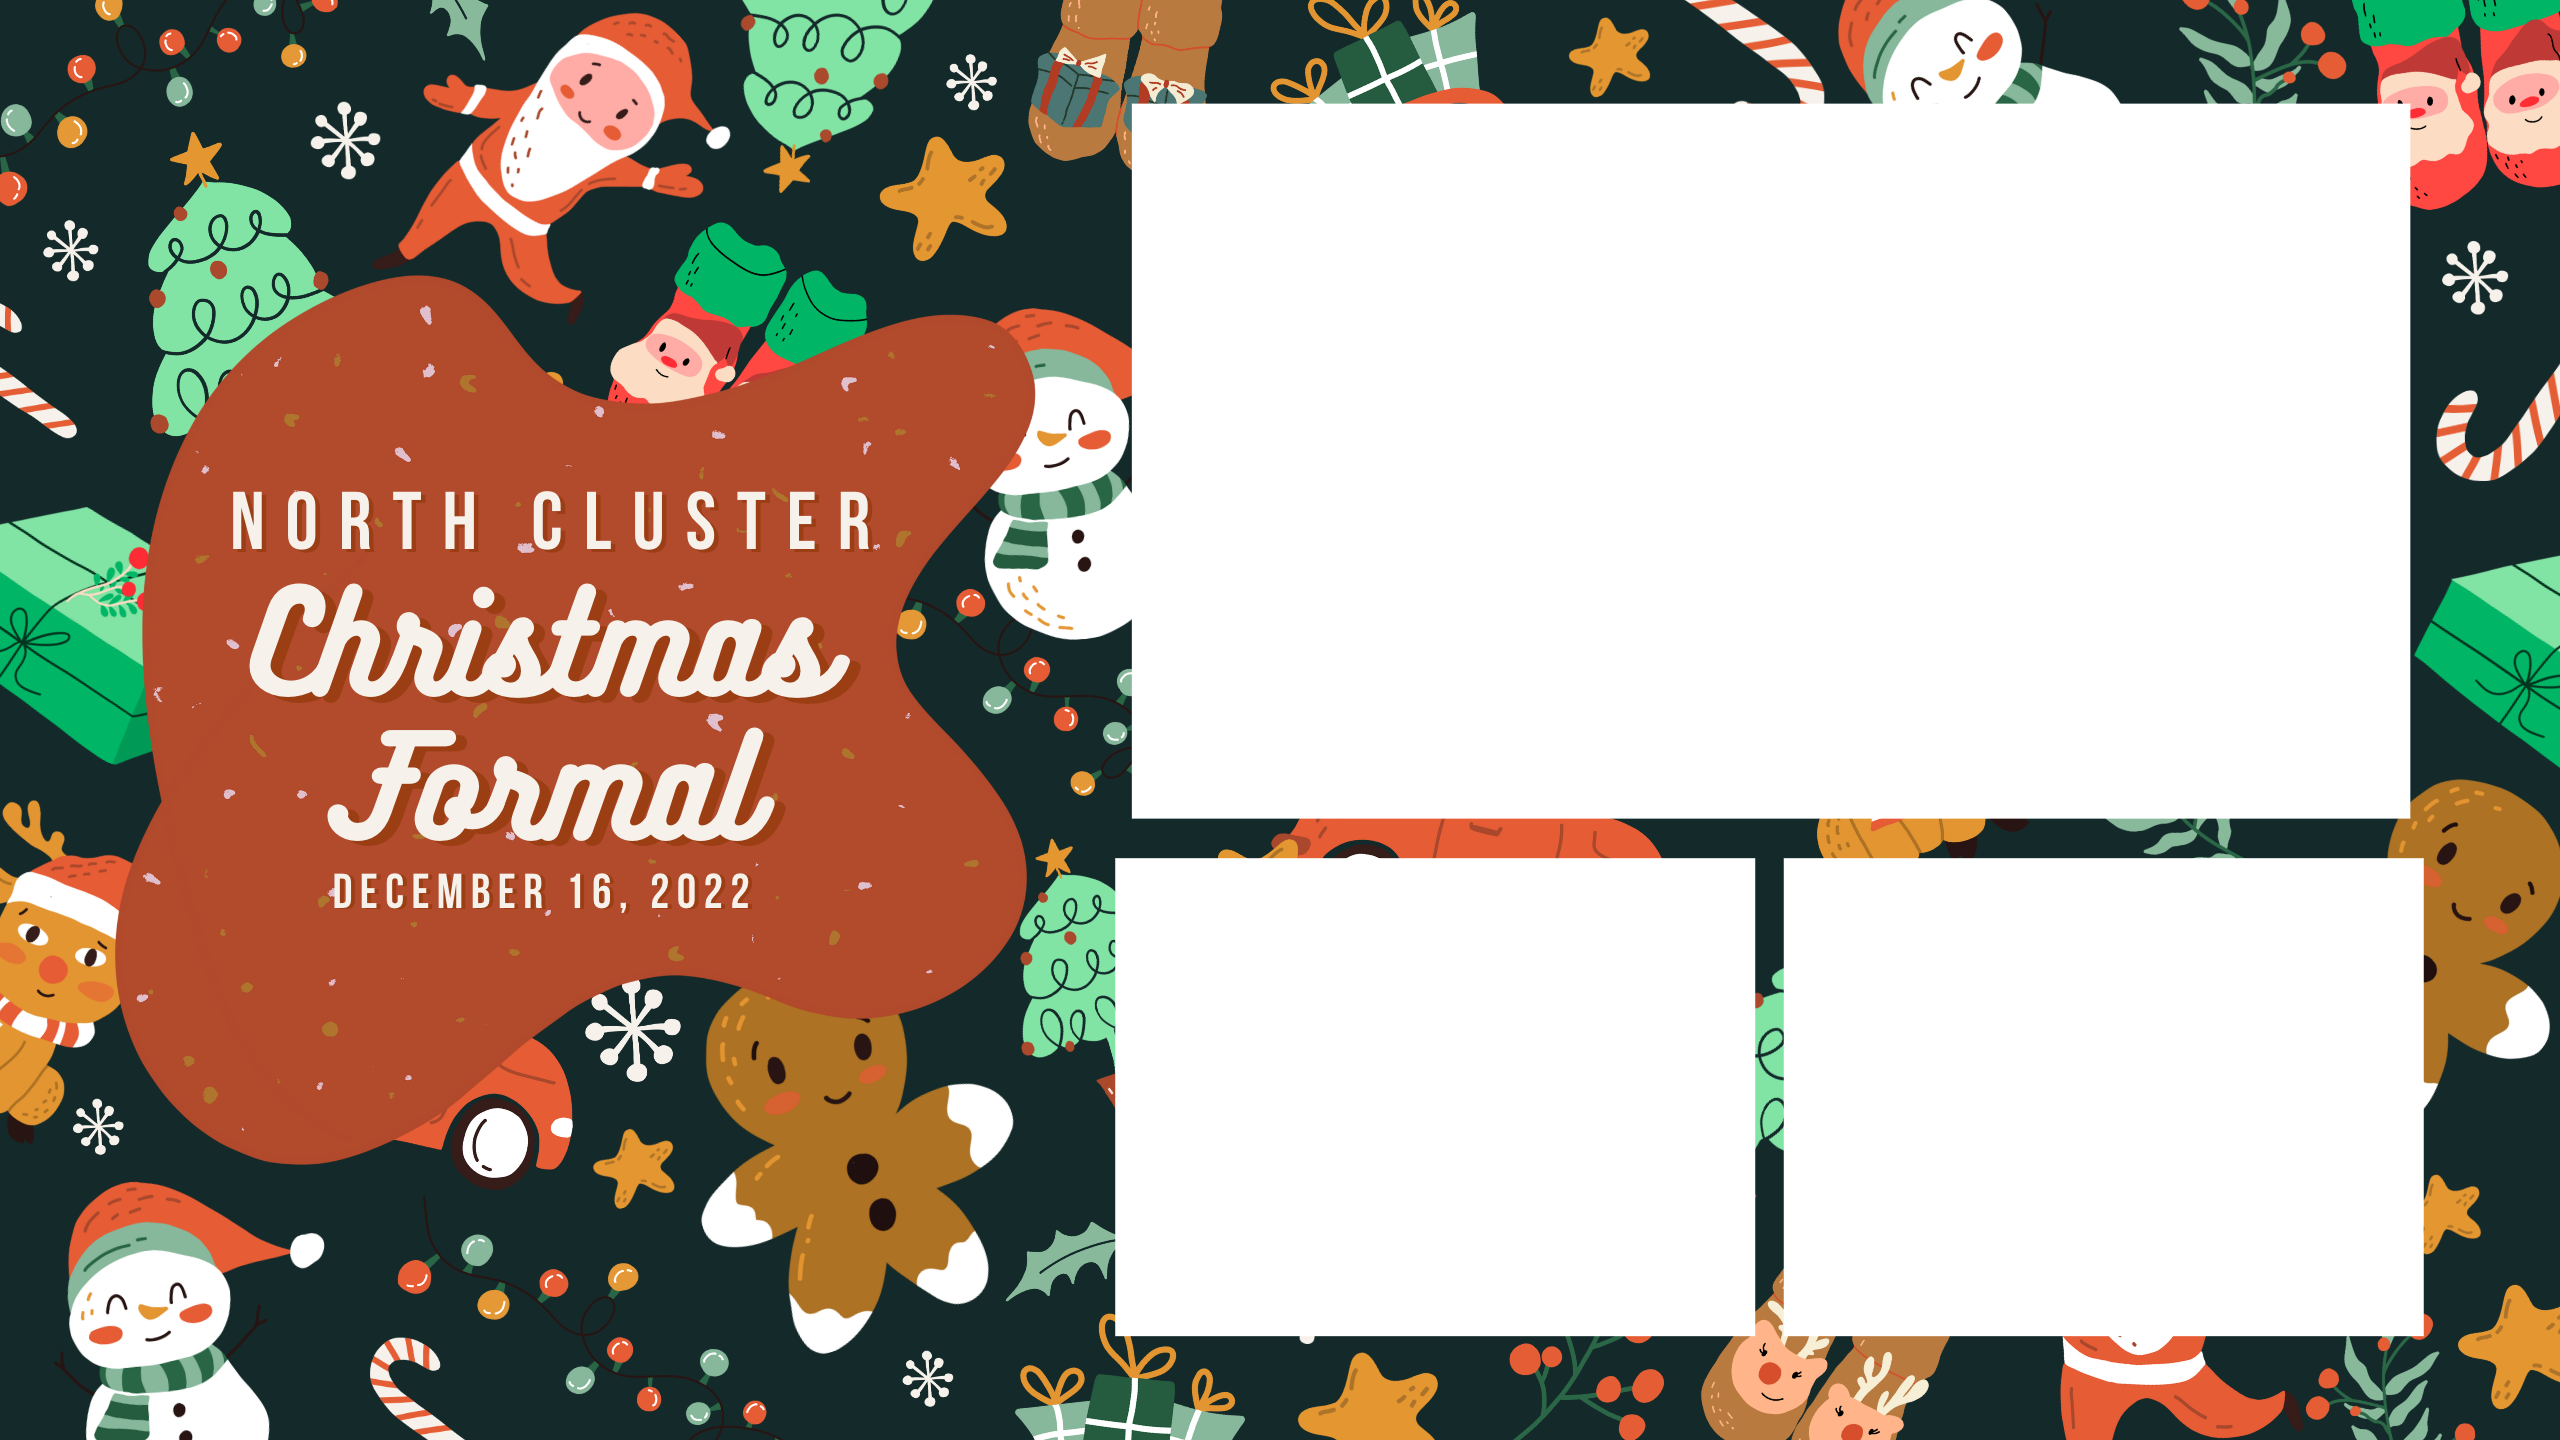
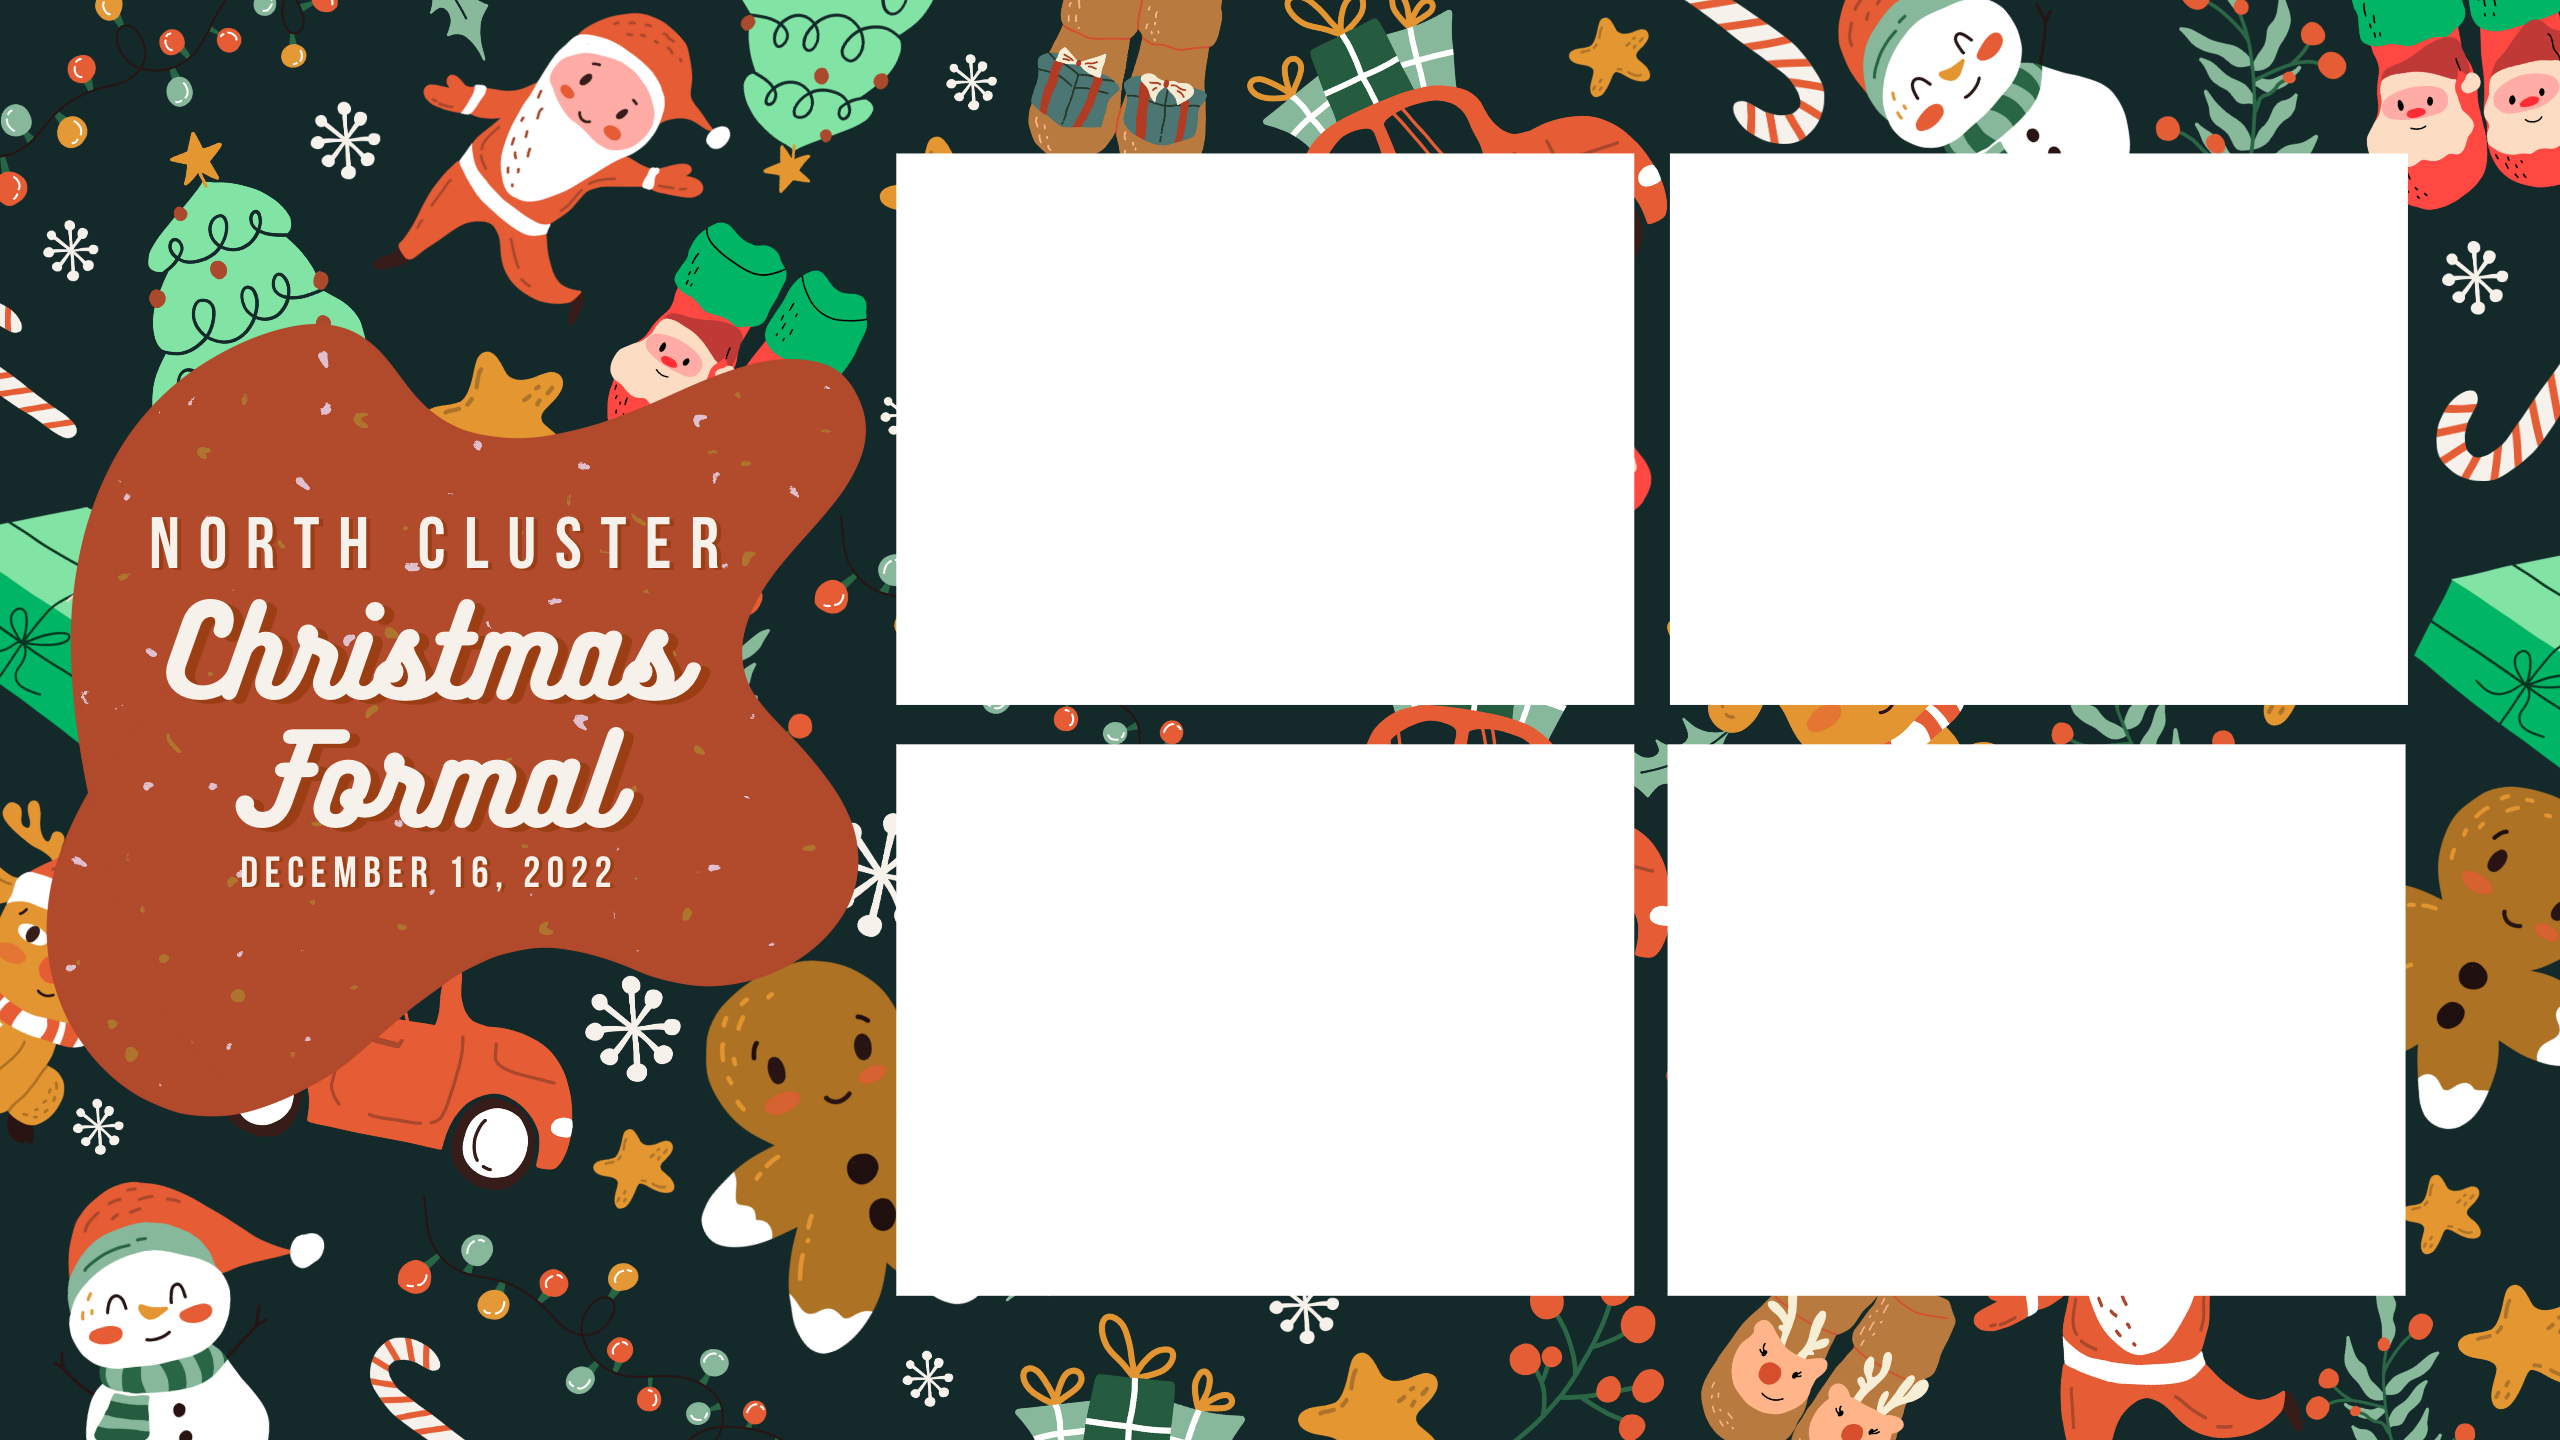
making template changes

Changed region(s): [[0.0, 0.0, 1.0, 0.9375]]

diff --git a/src/script.js b/src/script.js
@@ -54,7 +54,8 @@ click_button.addEventListener('click', async function() {
         { src: modifiedLink, x: 0, y: 0 },
         { src: images[0], x: currentTemplate.locations[0].x, y: currentTemplate.locations[0].y },
         { src: images[1], x: currentTemplate.locations[1].x, y: currentTemplate.locations[1].y },
-        { src: images[2], x: currentTemplate.locations[2].x, y: currentTemplate.locations[2].y }
+        { src: images[2], x: currentTemplate.locations[2].x, y: currentTemplate.locations[2].y },
+        { src: images[4], x: currentTemplate.locations[3].x, y: currentTemplate.locations[3].y }
       ])
         .then(b64 =>
             //download image
